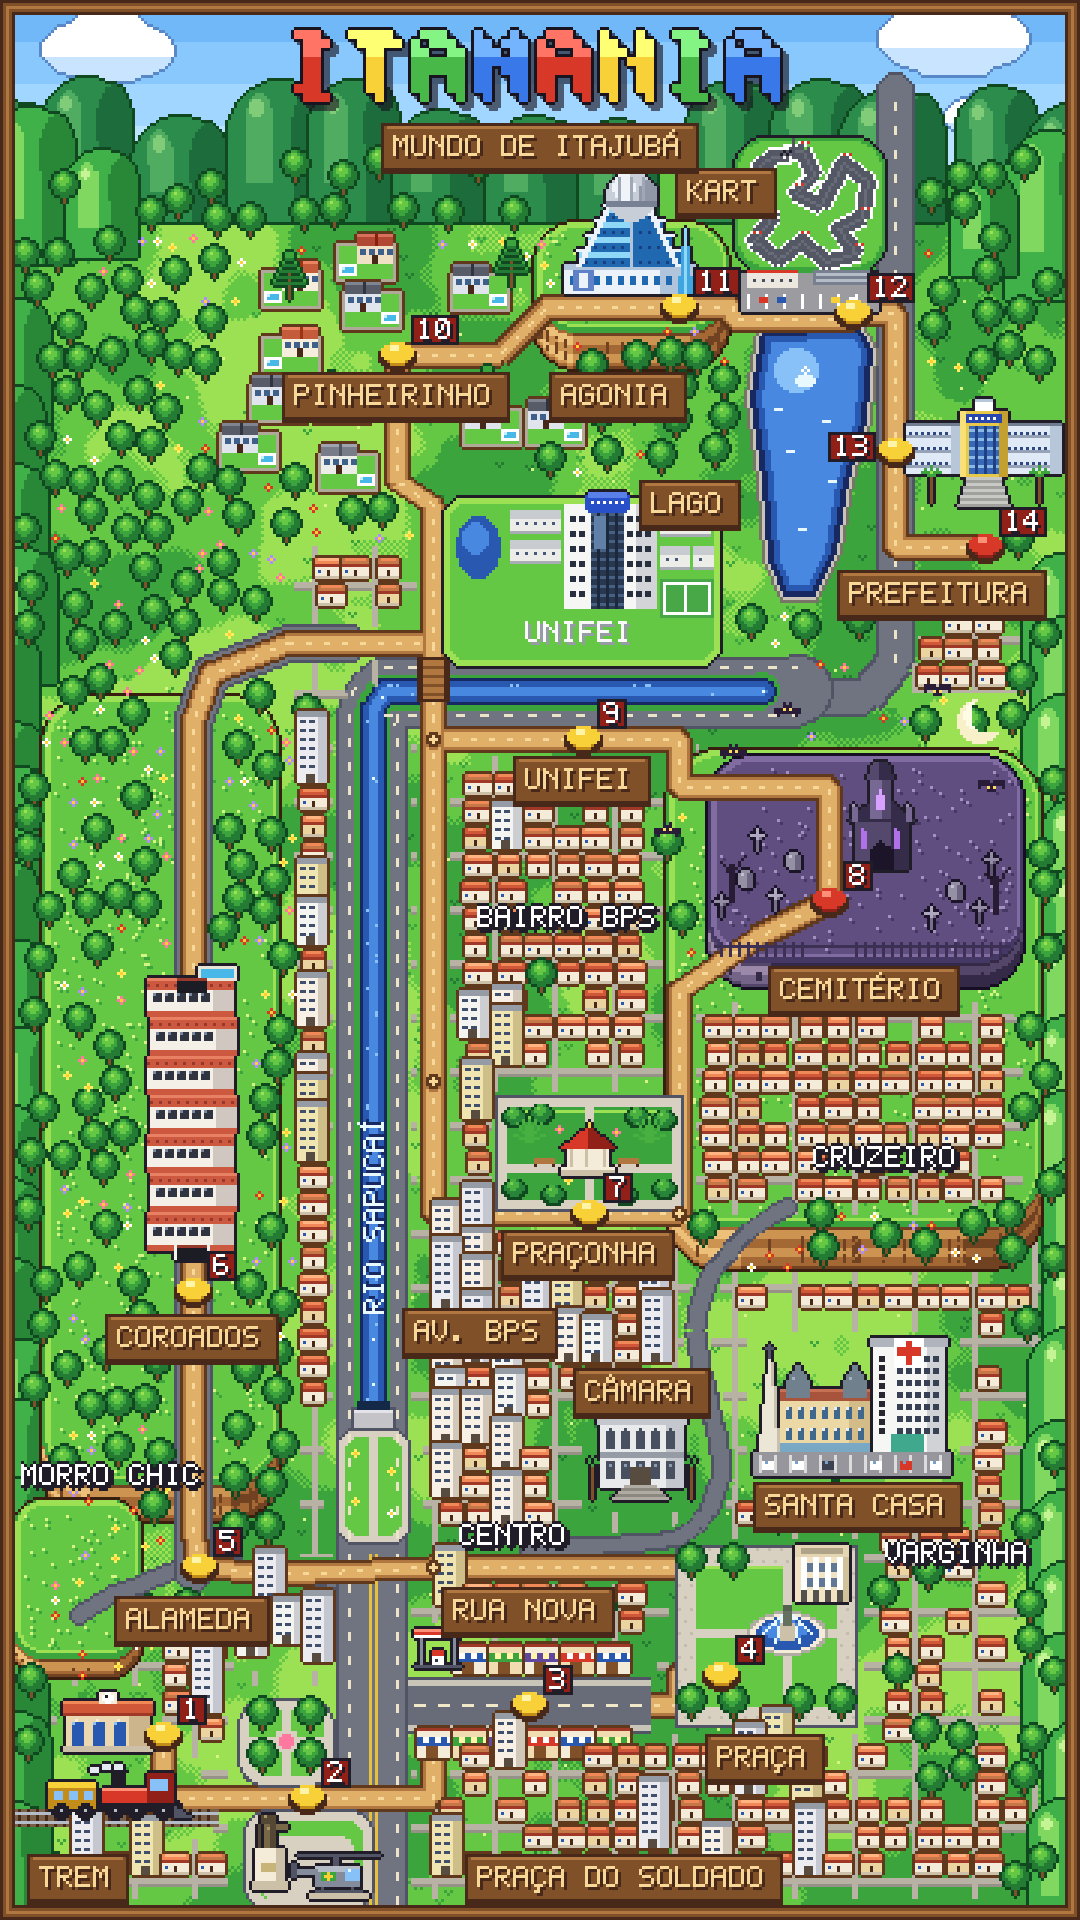
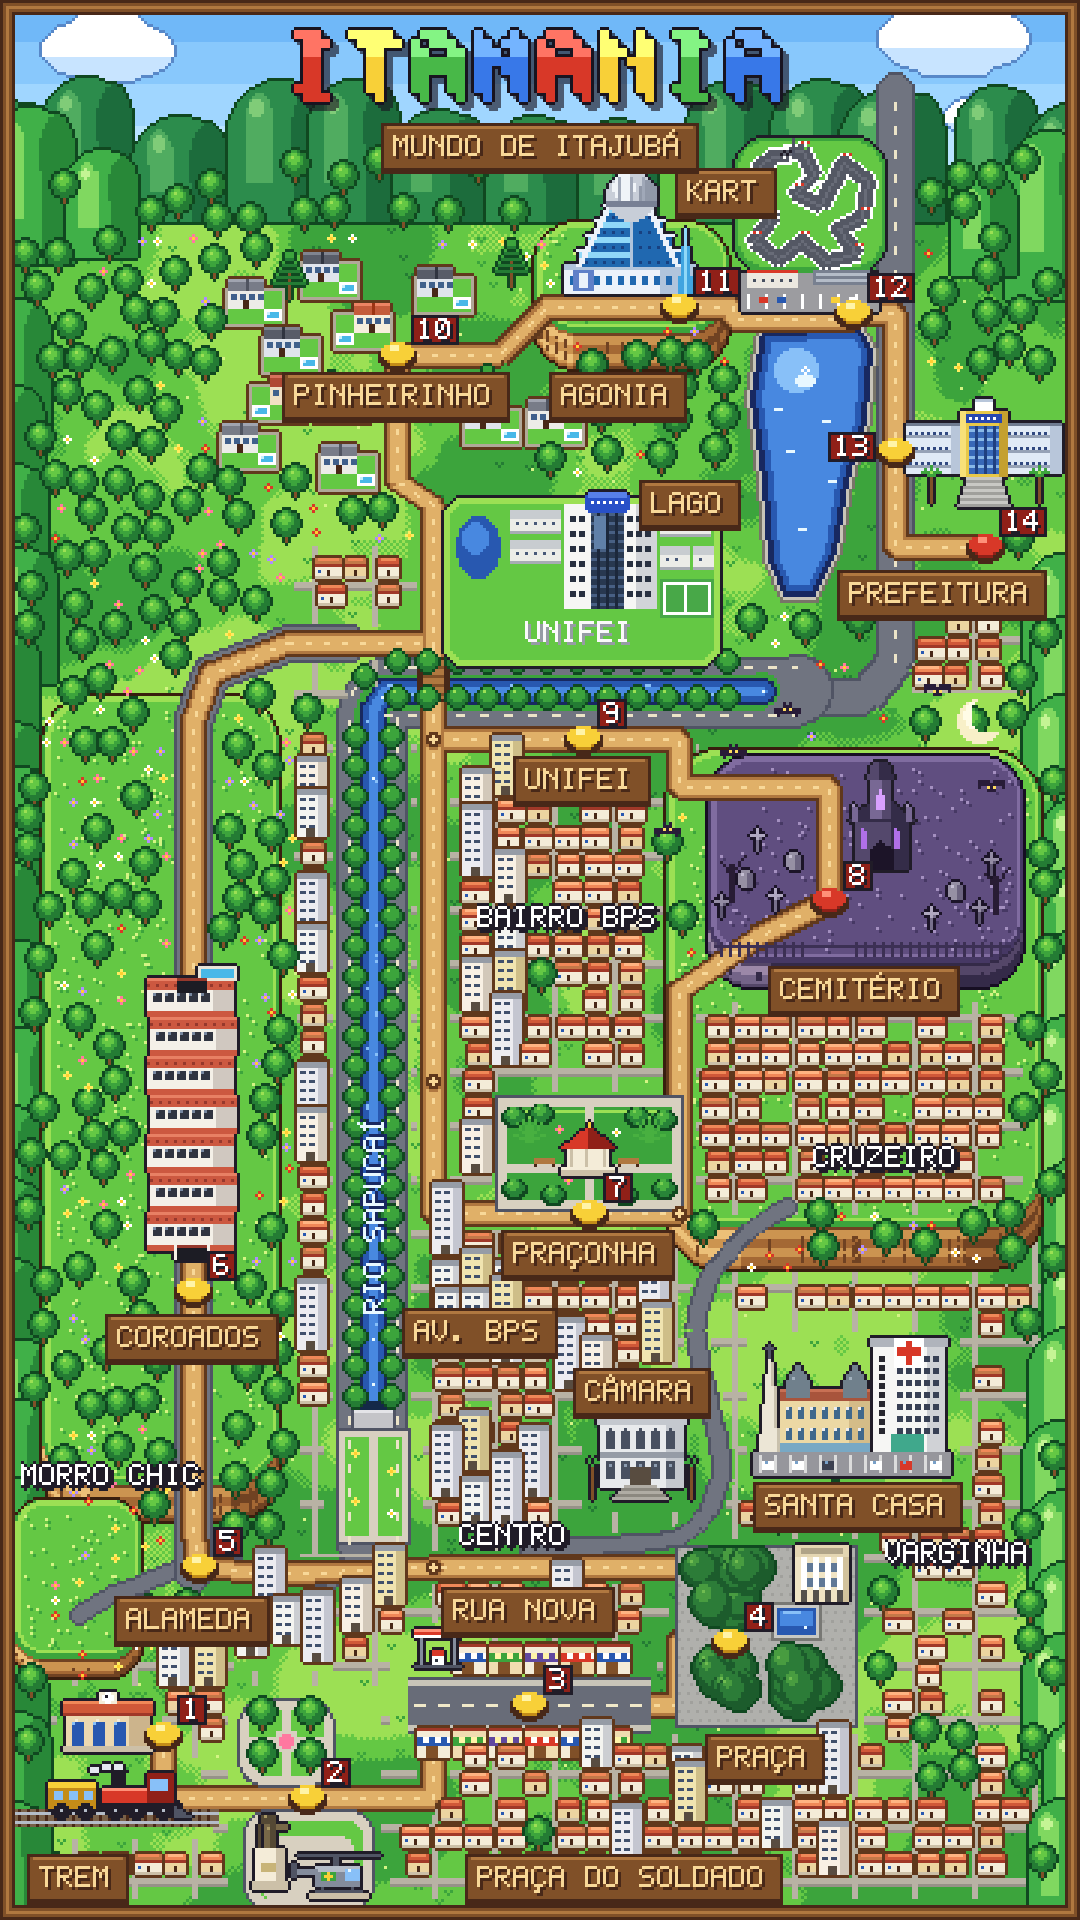
Mapa do Itamania: praça central pelo satélite, Unimed quadrada, árvores no rio
Praça Theodomiro Santiago com chão cinza, maciços de árvores e espelho d'água
azul; pracinha da Unimed quadrada; quarteirões no lugar do asfalto largo entre a
pracinha e a Praça do Soldado; árvores nas margens do Rio Sapucaí.

Claude-Session: https://claude.ai/code/session_01PQYRHDQbqQUf94eH7bEkMV

diff --git a/ferramentas/mapa-mundi/gerar_mapa.py b/ferramentas/mapa-mundi/gerar_mapa.py
@@ -1480,7 +1480,7 @@ def main():
     for y in range(34, 220, 8):
         ret(d, 298, y, 298, y + 2, (236, 228, 200))
     dl.line(jerson, fill=255, width=15)
-    eixo = [(124, H + 10), (124, 520), (124, 236), (128, 230), (266, 230)]
+    eixo = [(124, 514), (124, 236), (128, 230), (266, 230)]
     # o Rio Sapucaí corre no meio da BPS só daqui (y 470) até o lago; abaixo disso ele passa por baixo de uma
     # ponte e segue coberto pelo asfalto (informação do Pedro, 04/11/2026)
     FIM_RIO = 470
@@ -1497,12 +1497,10 @@ def main():
     ret(d, 118, FIM_RIO, 130, FIM_RIO, (228, 228, 232))
     ret(d, 119, FIM_RIO - 3, 129, FIM_RIO - 1, (20, 40, 72))
     # canteiro central da avenida coberta: faixa dupla amarela
-    ret(d, 123, 518, 123, H, (232, 192, 64))
-    ret(d, 125, 518, 125, H, (232, 192, 64))
     # pracinha da Unimed: o canteiro largo onde o rio some
-    d.rounded_rectangle([112, FIM_RIO + 6, 136, 514], radius=6, fill=rgba(C['ci0']))
-    d.rounded_rectangle([113, FIM_RIO + 7, 135, 513], radius=5, fill=rgba((216, 208, 192)))
-    d.rounded_rectangle([115, FIM_RIO + 9, 133, 511], radius=4, fill=rgba(C['g2']))
+    ret(d, 112, FIM_RIO + 6, 136, 514, C['ci0'])
+    ret(d, 113, FIM_RIO + 7, 135, 513, (216, 208, 192))
+    ret(d, 115, FIM_RIO + 9, 133, 511, C['g2'])
     ret(d, 123, FIM_RIO + 9, 125, 511, (216, 208, 192))
     for fx, fy in [(118, 484), (130, 490), (118, 500), (130, 504)]:
         flor(base, fx, fy, random.choice([(255, 120, 160), C['br'], (255, 236, 96)]))
@@ -1590,7 +1588,7 @@ def main():
 
     # ----- rota das fases
     N = {
-        'trem': (54, 578), 'soldado': (102, 599), 'ruanova': (176, 568), 'praca': (240, 558),
+        'trem': (54, 578), 'soldado': (102, 599), 'ruanova': (176, 568), 'praca': (243, 547),
         'alameda': (66, 522), 'coroados': (64, 430), 'pracona': (196, 404), 'cemiterio': (276, 300),
         'unifei': (194, 246), 'pinheirinho': (132, 118), 'agonia': (226, 102), 'kart': (284, 104),
         'lago': (298, 150), 'prefeitura': (328, 182),
@@ -1599,8 +1597,8 @@ def main():
     ROTAS = [
         [N['trem'], (54, 599), N['soldado']],
         [N['soldado'], (144, 599), (144, 568), N['ruanova']],
-        [N['ruanova'], (226, 568), (226, 558), N['praca']],
-        [N['praca'], (240, 522), N['j1']],
+        [N['ruanova'], (226, 568), (226, 547), N['praca']],
+        [N['praca'], (243, 522), N['j1']],
         [N['j1'], (104, 524), (88, 524), N['alameda']],
         [N['alameda'], (64, 510), N['coroados']],
         [N['coroados'], (64, 240), (70, 224), (96, 214), (144, 214), N['j3']],
@@ -1764,33 +1762,37 @@ def main():
         px(d, bx + 3, by_ + 2, C['mad0'])
 
     # ----- Praça (quadrado) e Rua Nova (rua larga)
+    # ----- Praça Theodomiro Santiago (praça central, satélite do Pedro): chão cinza, quatro maciços de árvores
+    # grandes, caminhos entre eles e, na clareira, a fonte quase espelho d'água (retângulo azul raso)
     x0, y0, x1, y1 = praca
     ret(d, x0 - 1, y0 - 1, x1 + 1, y1 + 1, C['ci0'])
-    ret(d, x0, y0, x1, y1, (216, 208, 192))
-    for yy in range(y0, y1 + 1, 4):
-        for xx in range(x0 + (yy // 4) % 2 * 2, x1 + 1, 4):
-            px(d, xx, yy, (196, 188, 172))
-    ret(d, x0 + 6, y0 + 6, x1 - 6, y1 - 6, C['g2'])
-    ret(d, x0 + 6, y0 + 6, x1 - 6, y0 + 6, C['g3'])
-    # caminhos em cruz deslocados para a fonte, que fica no centro-direita
-    mx, my = 262, 544
-    ret(d, mx - 1, y0 + 6, mx + 1, y1 - 6, (216, 208, 192))
-    ret(d, x0 + 6, my - 1, x1 - 6, my + 1, (216, 208, 192))
-    d.ellipse([mx - 13, my - 7, mx + 13, my + 7], fill=rgba((176, 172, 164)))
-    d.ellipse([mx - 12, my - 6, mx + 12, my + 6], fill=rgba(C['pa']))
-    d.ellipse([mx - 10, my - 5, mx + 10, my + 5], fill=rgba(C['a1']))
-    d.ellipse([mx - 8, my - 4, mx + 6, my + 2], fill=rgba(C['a2']))
-    for k in range(6):  # jatos em arco ao redor
-        a = k * math.pi / 3
-        jx, jy = mx + 8 * math.cos(a), my + 4 * math.sin(a)
-        d.line([(jx, jy), ((jx + mx) / 2, (jy + my) / 2 - 4), (mx + 3 * math.cos(a), my + 2 * math.sin(a))],
-               fill=rgba(C['a4']))
-    ret(d, mx - 2, my - 3, mx + 2, my + 2, C['pa2'])  # pedestal
-    ret(d, mx - 1, my - 7, mx + 1, my - 3, (100, 112, 96))  # busto
-    ret(d, mx - 1, my - 9, mx + 1, my - 8, (84, 96, 80))
-    for ax, ay in [(x0 + 4, y0 + 10), (x0 + 4, y1 - 1), (x1 - 4, y1 - 1), (x0 + 18, y0 + 10), (x0 + 18, y1 - 1),
-                   (x1 - 18, y1 - 1)]:
-        arvore(base, ax, ay, 0)
+    ret(d, x0, y0, x1, y1, (176, 176, 172))
+    for yy in range(y0, y1 + 1, 3):
+        for xx in range(x0 + (yy // 3) % 2, x1 + 1, 3):
+            px(d, xx, yy, (160, 160, 156))
+    ret(d, 257, 534, 273, 546, (120, 120, 116))
+    ret(d, 258, 535, 272, 545, (200, 200, 196))
+    ret(d, 259, 536, 271, 544, C['a1'])
+    ret(d, 260, 537, 270, 541, C['a2'])
+    ret(d, 261, 537, 266, 537, C['a3'])
+    px(d, 268, 542, C['a4'])
+    copa = camada()
+    dc = ImageDraw.Draw(copa)
+    tons = [(28, 92, 44), (44, 124, 56), (72, 156, 64), (112, 188, 80)]
+    for qx0, qy0, qx1, qy1 in [(227, 517, 252, 543), (228, 549, 253, 573), (258, 550, 283, 573), (240, 517, 256, 530)]:
+        for _ in range(9):
+            cx_, cy_ = random.uniform(qx0 + 5, qx1 - 5), random.uniform(qy0 + 5, qy1 - 5)
+            r = random.uniform(5, 7.5)
+            dc.ellipse([cx_ - r, cy_ - r, cx_ + r, cy_ + r], fill=rgba(tons[0]))
+            dc.ellipse([cx_ - r + 1, cy_ - r, cx_ + r - 2, cy_ + r - 2], fill=rgba(tons[1]))
+            dc.ellipse([cx_ - r + 2, cy_ - r + 1, cx_ - 1, cy_ - 1], fill=rgba(tons[2]))
+            dc.point((cx_ - r / 2, cy_ - r / 2), fill=rgba(tons[3]))
+    ca = np.array(copa)
+    ca[:, :x0, 3] = 0
+    ca[:, x1 + 1:, 3] = 0
+    ca[:y0, :, 3] = 0
+    ca[y1 + 1:, :, 3] = 0
+    base.alpha_composite(contorno(Image.fromarray(ca), C['gl']))
     colar(base, m_club_itajubense(), 274, 534, C['preto'])
 
     x0, y0, x1, y1 = ruanova
@@ -1855,6 +1857,21 @@ def main():
                 casa(base, x, y, random.randrange(12))
         else:
             arvore(base, x, y, 0)
+
+    # árvores ao longo do Rio Sapucaí, nas duas margens
+    for (x0_, y0_), (x1_, y1_) in zip(eixo_rio, eixo_rio[1:]):
+        seg = int(math.hypot(x1_ - x0_, y1_ - y0_))
+        nx, ny = -(y1_ - y0_) / max(1, seg), (x1_ - x0_) / max(1, seg)
+        for k in range(4, seg - 2, 10):
+            t = k / seg
+            x, y = x0_ + (x1_ - x0_) * t, y0_ + (y1_ - y0_) * t
+            for lado in (-6.5, 6.5):
+                tx, ty = round(x + nx * lado), round(y + ny * lado + (3 if ny == 0 else 0))
+                ar, da = spr(7, 7)
+                da.ellipse([0, 0, 6, 6], fill=rgba(C['g0']))
+                da.ellipse([1, 0, 5, 4], fill=rgba(C['g1']))
+                px(da, 2, 1, C['g3'])
+                colar(base, ar, tx, ty, C['gl'])
 
     # flores espalhadas na grama (fora da cidade, das ruas e dos planaltos escuros)
     cores_flor = [C['br'], (255, 120, 160), C['vm'], (255, 236, 96), (176, 140, 255)]

diff --git a/references/mapa/proposta-mapa.md b/references/mapa/proposta-mapa.md
@@ -127,6 +127,17 @@ Os nomes dos bairros aparecem escritos no chão.
 9. **Laguinho da UNIFEI:** azul.
 10. **Rua do Cruzeiro:** mais estreita.
 
+## Praça central, pracinha da Unimed e rio (satélite do Pedro, 04/11/2026)
+
+- **Praça Theodomiro Santiago:**
+  - chão cinza com quatro maciços de árvores grandes, como no satélite;
+  - na clareira, a fonte é quase um espelho d'água: retângulo azul raso;
+  - o Club Itajubense fica no canto.
+- **Pracinha da Unimed:** quadrada, sem cantos arredondados.
+- **Av. BPS:** acaba na pracinha. Abaixo dela, até a Praça do Soldado, há quarteirões com casas e prédios no lugar do
+  asfalto largo.
+- **Rio Sapucaí:** tem árvores nas duas margens ao longo de todo o trecho com água.
+
 ## O que o mapa mostra
 
 - **Formato em pé.** O eixo central de Itajubá é a **Av. BPS**, com o **Rio Sapucaí** correndo no meio dela. A avenida sobe pela
